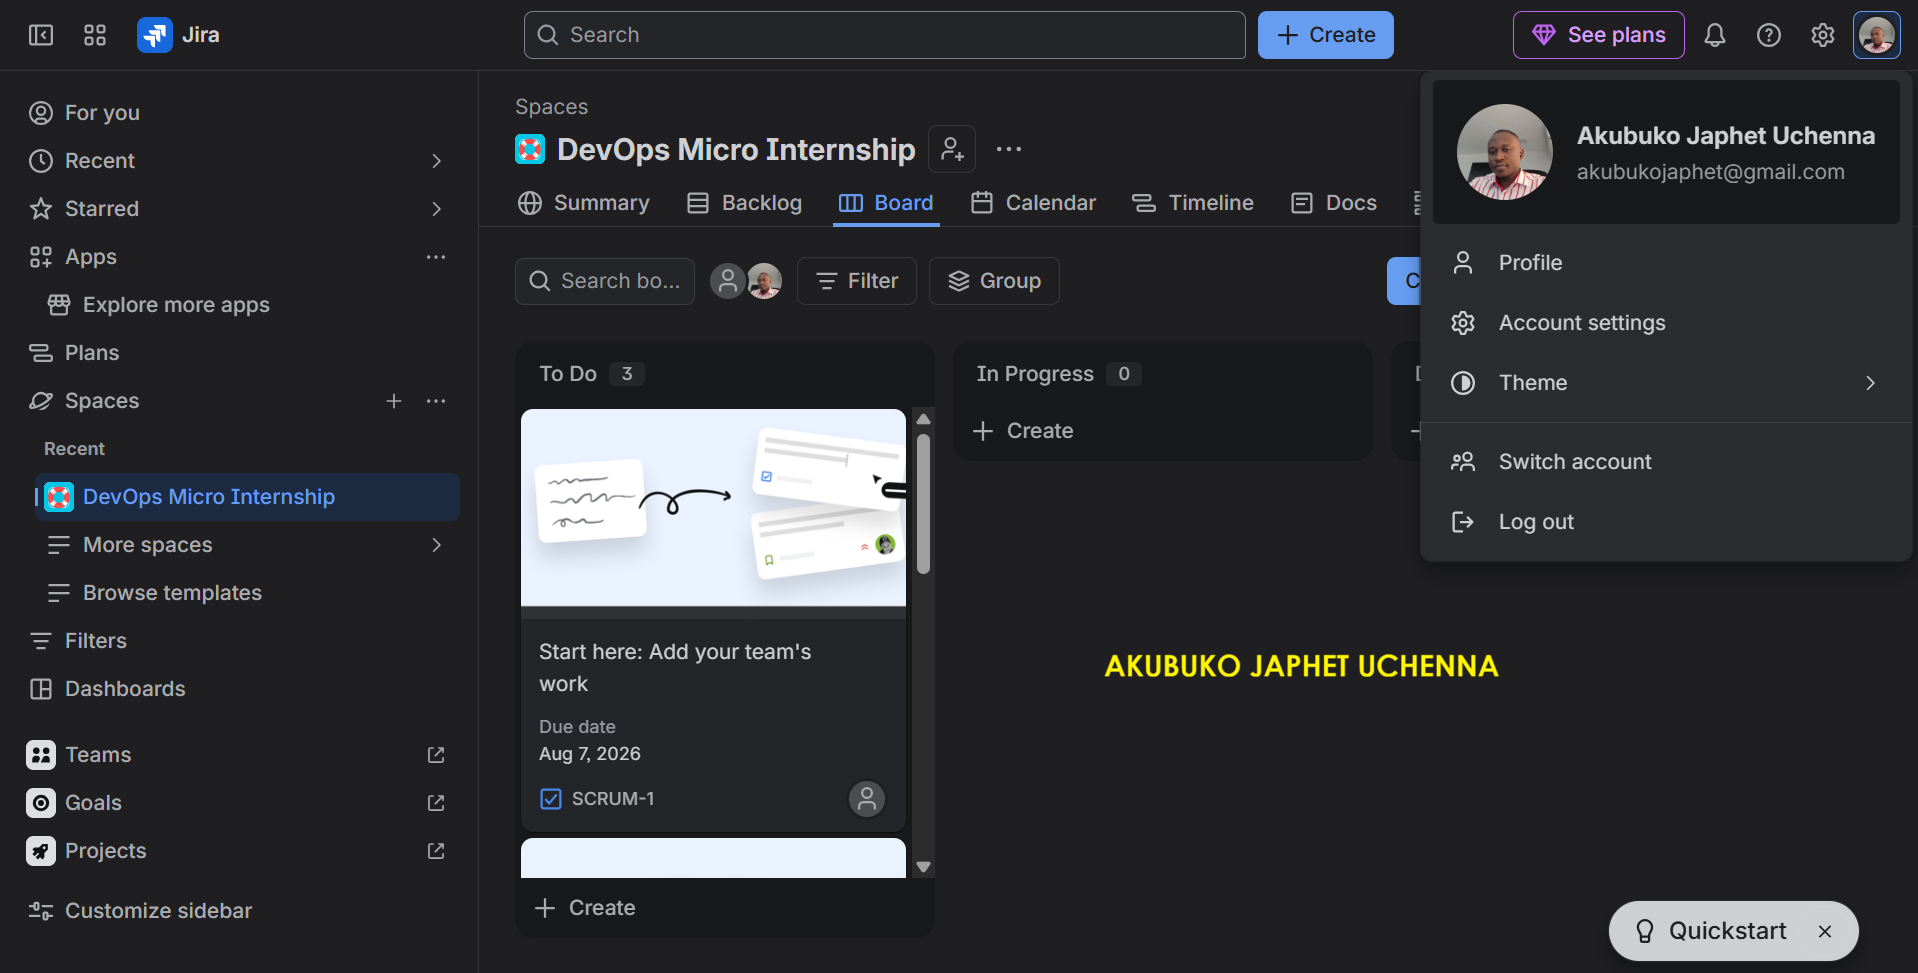
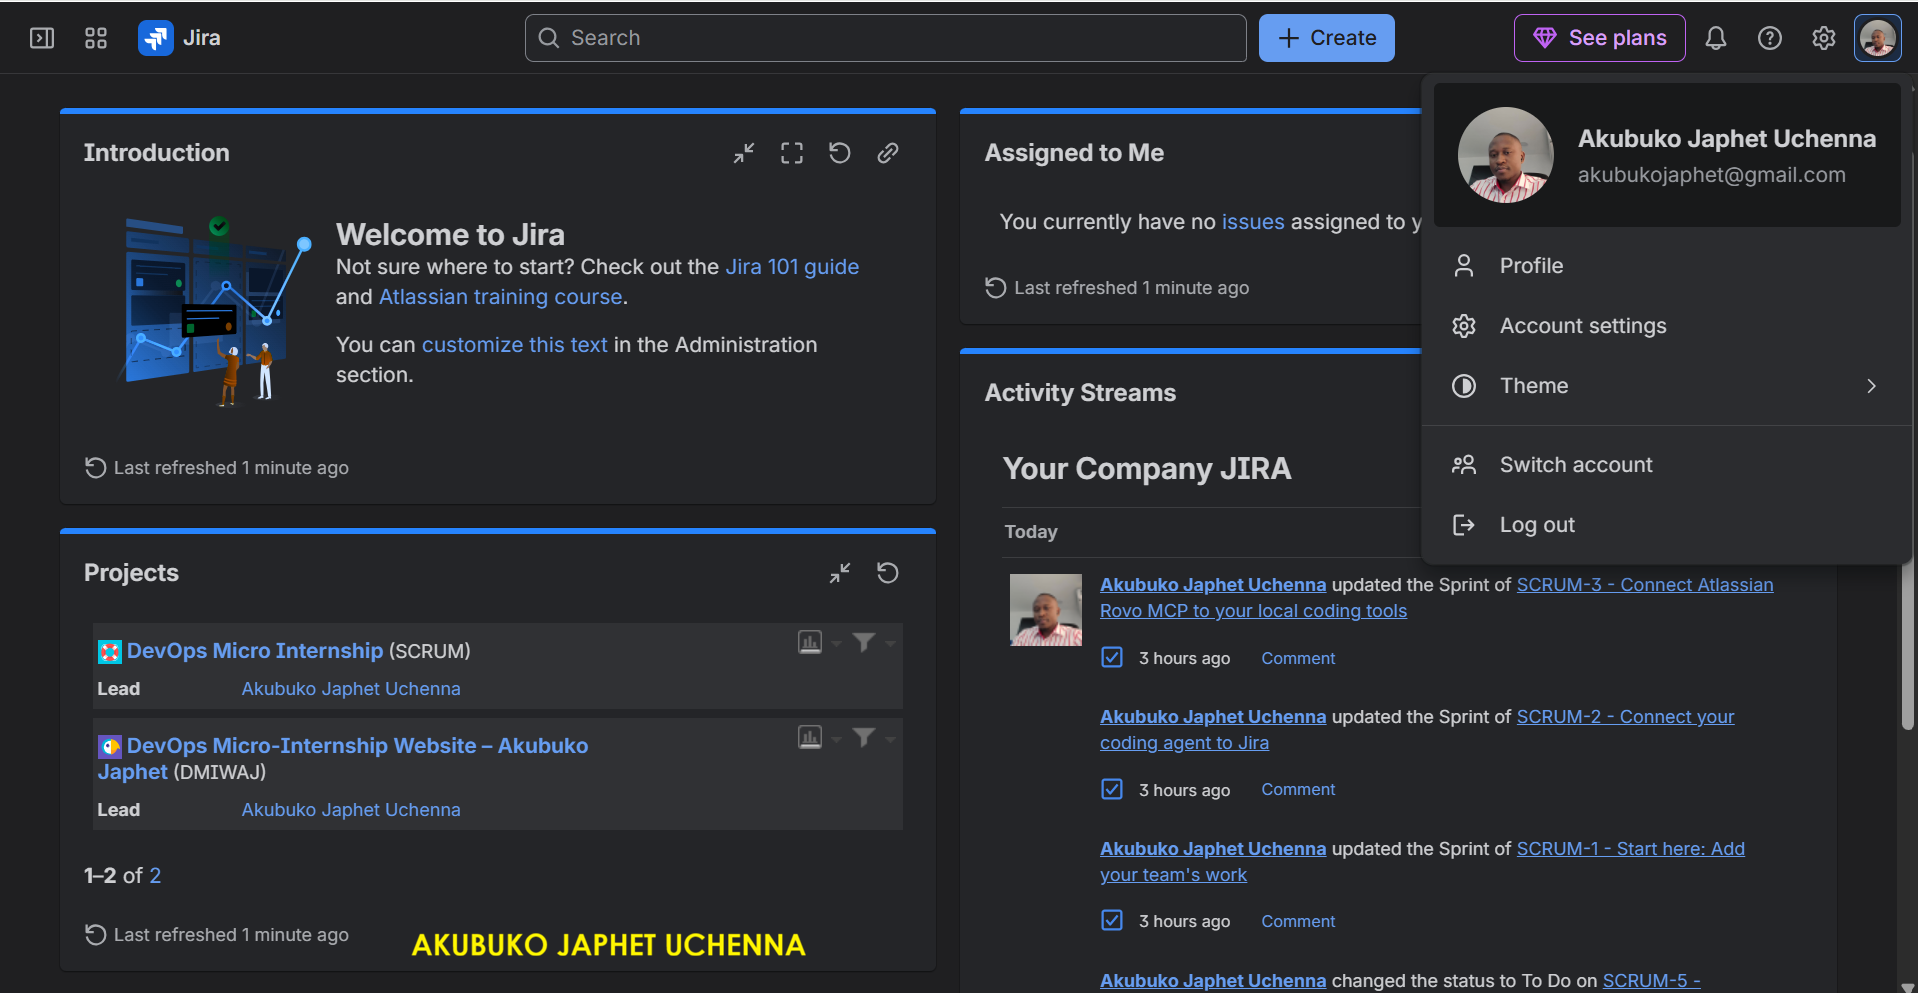
Complete Week 5 Assignment 2: Stand Up Scrum in Jira for DMI Website

diff --git a/week-05-devops-lifecycle/assignment-02-stand-up-scrum-in-jira-for-dmi-website.md b/week-05-devops-lifecycle/assignment-02-stand-up-scrum-in-jira-for-dmi-website.md
@@ -20,7 +20,7 @@ Create a private, team-managed Scrum Space named `DevOps Micro-Internship Websit
 
 #### Screenshot 1 — Space confirmation or Space sidebar showing the Space name and key
 
-Add your screenshot here.
+![Team-Managed Scrum Project](screenshots/screenshot-01-team-managed-scrum-project.png)
 
 ---
 
@@ -34,7 +34,7 @@ Create the Epic `Polish DMI Website UI & Deploy` to group the website UI and dep
 
 #### Screenshot 2 — Backlog showing the Epic panel enabled and the Epic visible
 
-Add your screenshot here.
+![Epic Created](screenshots/screenshot-02-epic-created.png)
 
 ---
 
@@ -48,13 +48,13 @@ Create all six required Stories (S1–S6) under the Epic, assign every Story to 
 
 #### Screenshot 3 — Backlog showing the Epic and all six Stories under it
 
-Add your screenshot here.
+![Product Backlog](screenshots/screenshot-03-product-backlog.png)
 
 ---
 
 #### Screenshot 4 — One opened Story showing its Story point estimate, acceptance criteria, and label
 
-Add your screenshot here.
+![Sprint Created](screenshots/screenshot-04-sprint-created.png)
 
 ---
 
@@ -68,13 +68,13 @@ Break down S2 (Primary button color refresh) and S4 (Footer with version and dat
 
 #### Screenshot 5 — S2 showing all four Sub-tasks
 
-Add your screenshot here.
+![Story S2 with Subtasks](screenshots/screenshot-05-story-s2-subtasks.png)
 
 ---
 
 #### Screenshot 6 — S4 showing all four Sub-tasks
 
-Add your screenshot here.
+![Story S4 with Subtasks](screenshots/screenshot-06-story-s4-subtasks.png)
 
 ---
 
@@ -88,7 +88,8 @@ Apply the `frontend` label to S1, S2, S3, S5, and S6, and the `devops` label to 
 
 #### Screenshot 7 — Backlog or Story details showing labels applied to at least two visible Stories
 
-Add your screenshot here.
+![Backlog Story Labels - Frontend](screenshots/screenshot-07a-backlog-story-labels.png)
+![Backlog Story Labels - DevOps](screenshots/screenshot-07b-backlog-story-labels.png)
 
 ---
 
@@ -102,13 +103,13 @@ Create a one-week Sprint, move two or three Stories into it (approximately 3–5
 
 #### Screenshot 8 — Sprint 1 before starting, showing the selected Stories and Story Points
 
-Add your screenshot here.
+![Sprint 1 Story Points](screenshots/screenshot-08-sprint-1-story-points.png)
 
 ---
 
 #### Screenshot 9 — Active Sprint board showing the started Sprint and Sprint Goal
 
-Add your screenshot here.
+![Active Sprint Board](screenshots/screenshot-09-active-sprint-board.png)
 
 ---
 
@@ -122,13 +123,13 @@ Filter Jira work by the `frontend` and `devops` labels and review Stories with S
 
 #### Screenshot 10 — Filter for label = frontend showing the filtered results
 
-Add your screenshot here.
+![Frontend Label Filter](screenshots/screenshot-10-frontend-label-filter.png)
 
 ---
 
 #### Screenshot 11 — Filter for label = devops showing the filtered results
 
-Add your screenshot here.
+![DevOps Label Filter](screenshots/screenshot-11-devops-label-filter.png)
 
 ---
 
@@ -142,7 +143,7 @@ Locate the Burndown Chart for Sprint 1 so it is ready for later progress trackin
 
 #### Screenshot 12 — Burndown Chart page opened for Sprint 1
 
-Add your screenshot here.
+![Sprint 1 Burndown Chart](screenshots/screenshot-12-sprint-1-burndown-chart.png)
 
 ---
 
